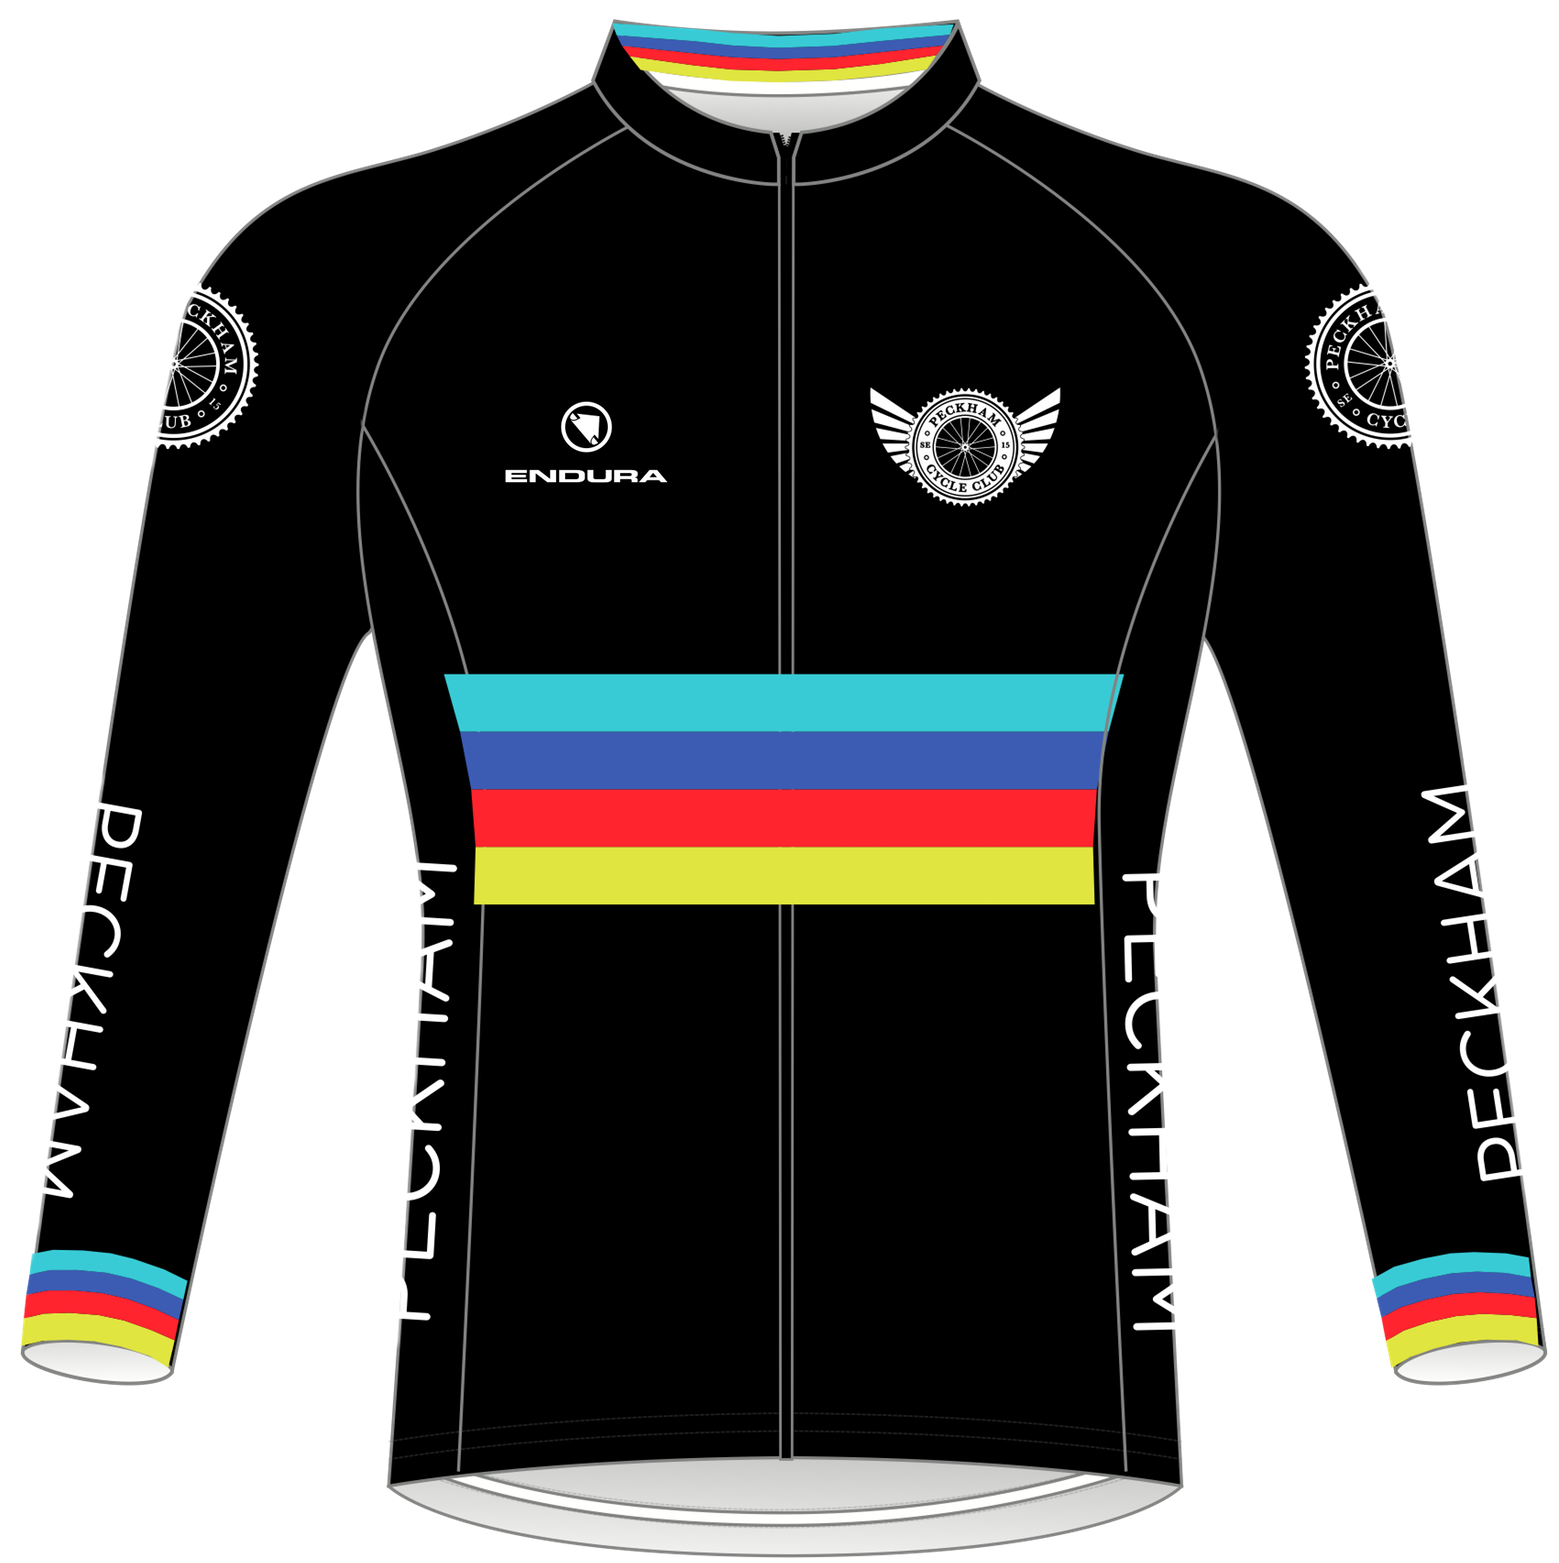
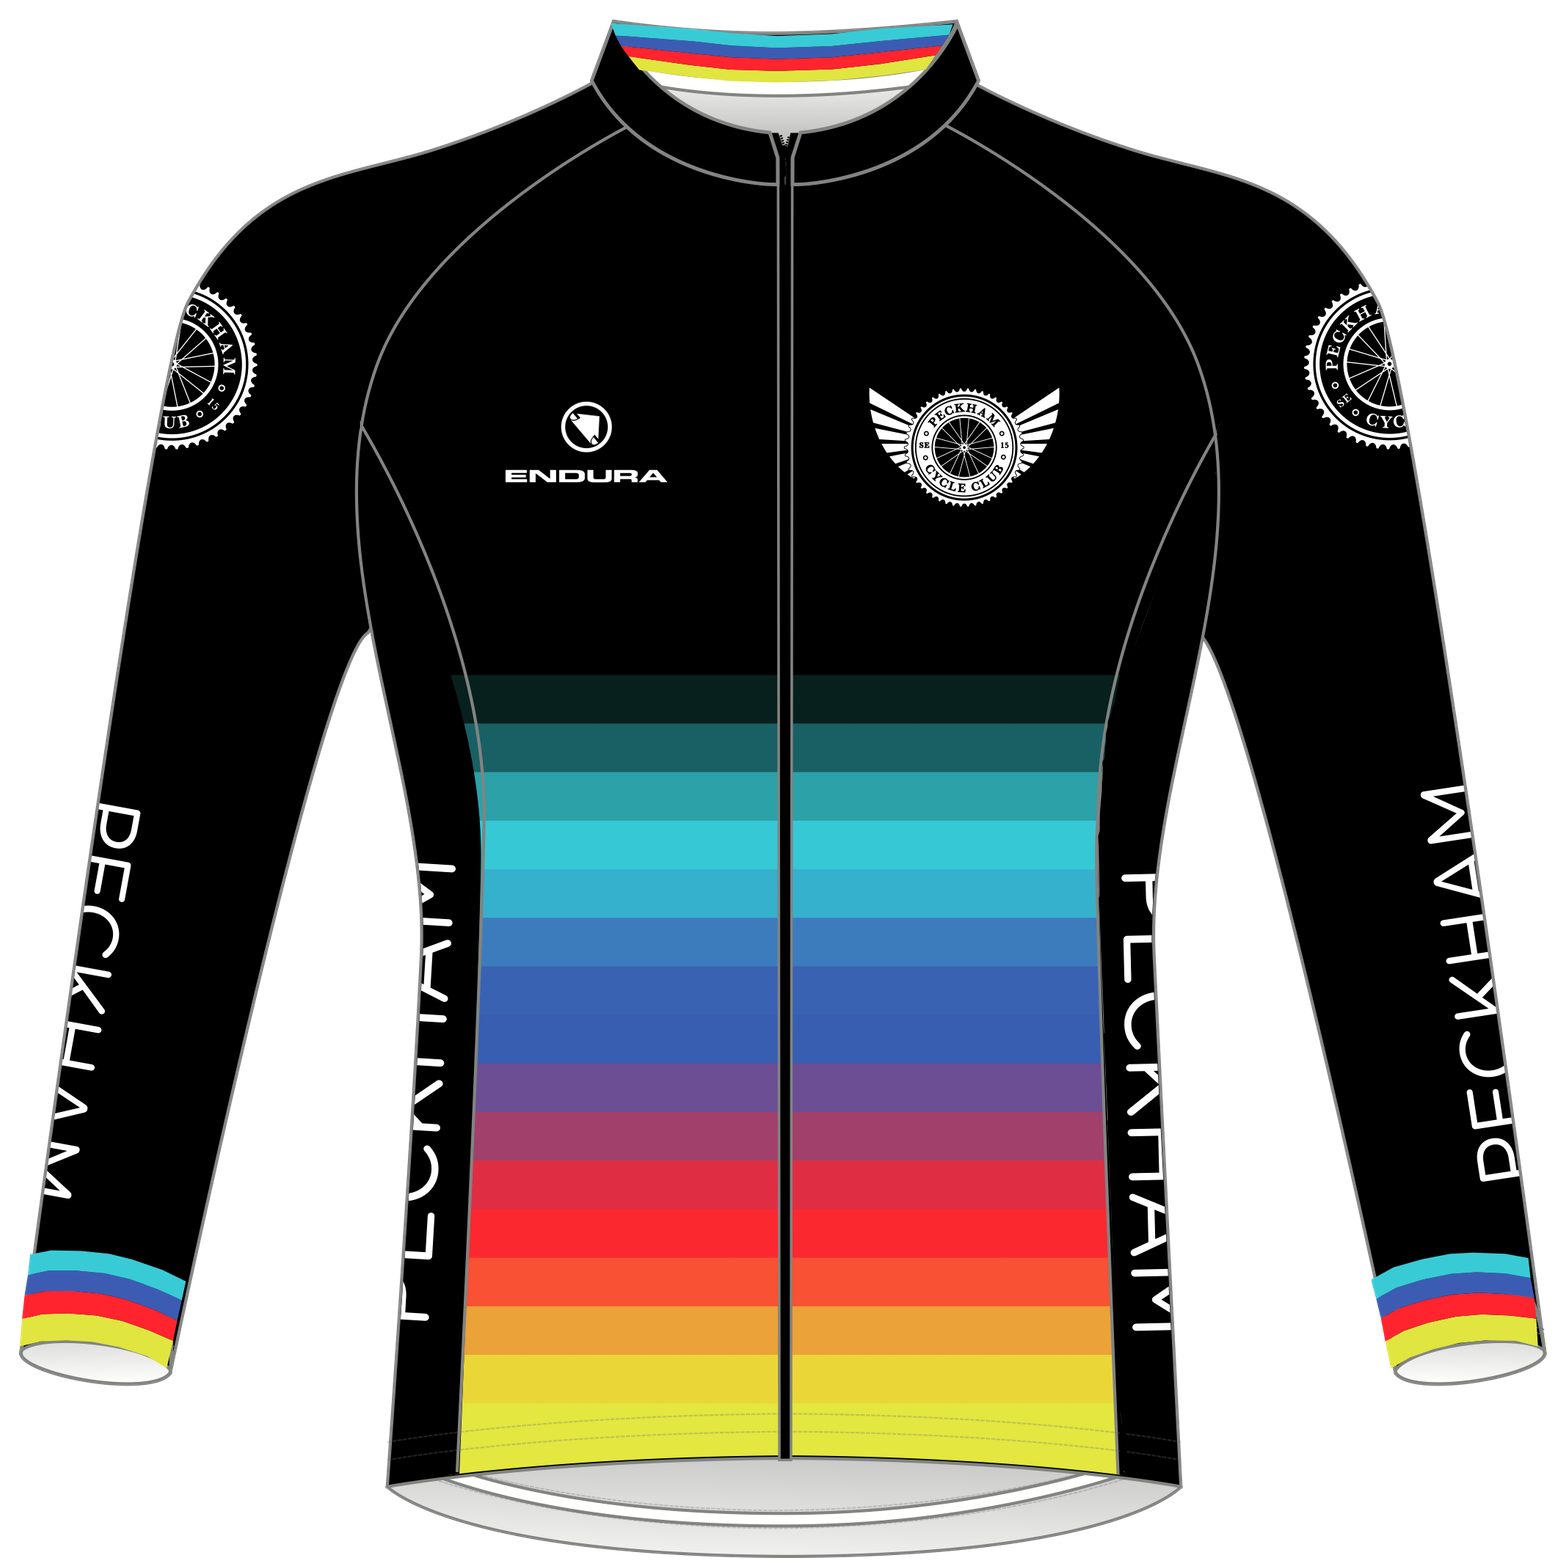
Update jersey designs and add casualwear

diff --git a/packages/config/index.js b/packages/config/index.js
@@ -15,6 +15,10 @@ const SECTIONS = {
   ACCESSORIES: {
     title: 'Accessories',
     slug: 'accessories'
+  },
+  CASUAL: {
+    title: 'Casualwear',
+    slug: 'casualwear'
   }
 }
 
@@ -290,6 +294,83 @@ const GLOVE_SIZES = [{
       unisex: {
         metric: '12cm',
         imperial: '5.1"'
+      }
+    }
+  }
+}]
+
+const TSHIRT_SIZES = [{
+  code: 'S',
+  name: 'Small',
+  measurements: {
+    chest: {
+      male: {
+        metric: '86-91cm',
+        imperial: '34-36"'
+      },
+      female: {
+        metric: '86-89cm',
+        imperial: '34-35"'
+      }
+    }
+  }
+}, {
+  code: 'M',
+  name: 'Medium',
+  measurements: {
+    chest: {
+      male: {
+        metric: '96-101cm',
+        imperial: '38-40"'
+      },
+      female: {
+        metric: '91-94cm',
+        imperial: '36-37"'
+      }
+    }
+  }
+}, {
+  code: 'L',
+  name: 'Large',
+  measurements: {
+    chest: {
+      male: {
+        metric: '106-111cm',
+        imperial: '42-44"'
+      },
+      female: {
+        metric: '99-101cm',
+        imperial: '39-40"'
+      }
+    }
+  }
+}, {
+  code: 'XL',
+  name: 'Extra large',
+  measurements: {
+    chest: {
+      male: {
+        metric: '117-122cm',
+        imperial: '46-48"'
+      },
+      female: {
+        metric: '106-112cm',
+        imperial: '42-44"'
+      }
+    }
+  }
+}, {
+  code: 'XXL',
+  name: 'XX Large',
+  measurements: {
+    chest: {
+      male: {
+        metric: '127-132cm',
+        imperial: '50-52"'
+      },
+      female: {
+        metric: '117-122cm',
+        imperial: '46-48"'
       }
     }
   }
@@ -641,6 +722,58 @@ const config = {
         'N.b. there is stock of this item available to buy at <a href="https://ratracecycles.com/">Rat Race Cycles</a>'
       ],
       price: 800
+    },
+    {
+      sku: 'CLUB-TSHIRT-2019',
+      title: 'Club t-shirt',
+      slug: 'club-tshirt-2019',
+      section: SECTIONS.CASUAL,
+      details: [
+        'N.b. £5 pre-production discount!',
+        'We are doing a run of printed shirts/hoodies hopefully in time for the Christmas party',
+        'Club t-shirt printed on 100% cotton Fruit of the Loom shirt in black'
+      ],
+      sizes: TSHIRT_SIZES,
+      price: 1500
+    },
+    {
+      sku: 'CLUB-LS-TSHIRT-2019',
+      title: 'Club long sleeved t-shirt',
+      slug: 'club-ls-tshirt-2019',
+      section: SECTIONS.CASUAL,
+      details: [
+        'N.b. £5 pre-production discount!',
+        'We are doing a run of printed shirts/hoodies hopefully in time for the Christmas party',
+        'Club long sleeved t-shirt printed on 100% cotton Fruit of the Loom shirt in black'
+      ],
+      sizes: TSHIRT_SIZES,
+      price: 2000
+    },
+    {
+      sku: 'CLUB-HOODIE-2019',
+      title: 'Club hoodie',
+      slug: 'club-hoodie-2019',
+      section: SECTIONS.CASUAL,
+      details: [
+        'N.b. £5 pre-production discount!',
+        'We are doing a run of printed shirts/hoodies hopefully in time for the Christmas party',
+        'Club hoodie printed on black Fruit of the Loom hoodie'
+      ],
+      sizes: TSHIRT_SIZES,
+      price: 3000
+    },
+    {
+      sku: 'CLUB-ZIP-HOODIE-2019',
+      title: 'Club zip hoodie',
+      slug: 'club-zip-hoodie-2019',
+      section: SECTIONS.CASUAL,
+      details: [
+        'N.b. £5 pre-production discount!',
+        'We are doing a run of printed shirts/hoodies hopefully in time for the Christmas party',
+        'Club hoodie printed on black Fruit of the Loom hoodie with zip'
+      ],
+      sizes: TSHIRT_SIZES,
+      price: 3500
     }]
   }
 }

diff --git a/packages/website/src/config.js b/packages/website/src/config.js
@@ -11,11 +11,8 @@ import capFrontImage from '../assets/shop/cap-front.png?sizes[]=300,sizes[]=500'
 import capSidesImage from '../assets/shop/cap-sides.png?sizes[]=300,sizes[]=500'
 import giletFrontImage from '../assets/shop/gilet-front.png?sizes[]=300,sizes[]=500'
 import giletRearImage from '../assets/shop/gilet-rear.png?sizes[]=300,sizes[]=500'
-import kneeWarmersImage from '../assets/shop/knee-warmers.png?sizes[]=300,sizes[]=500'
-import legWarmersImage from '../assets/shop/leg-warmers.png?sizes[]=300,sizes[]=500'
 import lsJerseyFrontImage from '../assets/shop/ls-jersey-front.png?sizes[]=300,sizes[]=500'
 import lsJerseyRearImage from '../assets/shop/ls-jersey-rear.png?sizes[]=300,sizes[]=500'
-import shoeCoversImage from '../assets/shop/shoe-covers.png?sizes[]=300,sizes[]=500'
 import ssJerseyFrontImage from '../assets/shop/ss-jersey-front.png?sizes[]=300,sizes[]=500'
 import ssJerseyRearImage from '../assets/shop/ss-jersey-rear.png?sizes[]=300,sizes[]=500'
 import ssSummerJerseyFrontImage from '../assets/shop/ss-summer-jersey-front.png?sizes[]=300,sizes[]=500'
@@ -24,13 +21,19 @@ import winterJacketFrontImage from '../assets/shop/winter-jacket-front.png?sizes
 import winterJacketRearImage from '../assets/shop/winter-jacket-rear.png?sizes[]=300,sizes[]=500'
 import winterTightsFrontImage from '../assets/shop/winter-tights-front.png?sizes[]=300,sizes[]=500'
 import winterTightsRearImage from '../assets/shop/winter-tights-rear.png?sizes[]=300,sizes[]=500'
-import tripsImage from '../assets/shop/trips.png?sizes[]=300,sizes[]=500'
 import socksSideImage from '../assets/shop/socks-side.png?sizes[]=300,sizes[]=500'
 import socksTopImage from '../assets/shop/socks-top.png?sizes[]=300,sizes[]=500'
 import glovesImage from '../assets/shop/gloves.png?sizes[]=300,sizes[]=500'
 import multiTubeImage from '../assets/shop/multi-tube.png?sizes[]=300,sizes[]=500'
 import headsetCapImage from '../assets/shop/headset-cap.png?sizes[]=300,sizes[]=500'
 import bidonImage from '../assets/shop/bidon.png?sizes[]=300,sizes[]=500'
+import tshirtFrontImage from '../assets/shop/tshirt-front.png?sizes[]=300,sizes[]=500'
+import tshirtRearImage from '../assets/shop/tshirt-rear.png?sizes[]=300,sizes[]=500'
+import lsTshirtFrontImage from '../assets/shop/ls-tshirt-front.png?sizes[]=300,sizes[]=500'
+import lsTshirtRearImage from '../assets/shop/ls-tshirt-rear.png?sizes[]=300,sizes[]=500'
+import hoodieFrontImage from '../assets/shop/hoodie-front.png?sizes[]=300,sizes[]=500'
+import hoodieRearImage from '../assets/shop/hoodie-rear.png?sizes[]=300,sizes[]=500'
+import zipHoodieFrontImage from '../assets/shop/zip-hoodie-front.png?sizes[]=300,sizes[]=500'
 
 const productImages = {
   'CLUB-JERSEY-2018': [
@@ -87,6 +90,22 @@ const productImages = {
   ],
   'CLUB-BIDON-2018': [
     bidonImage
+  ],
+  'CLUB-TSHIRT-2019': [
+    tshirtFrontImage,
+    tshirtRearImage
+  ],
+  'CLUB-LS-TSHIRT-2019': [
+    lsTshirtFrontImage,
+    lsTshirtRearImage
+  ],
+  'CLUB-HOODIE-2019': [
+    hoodieFrontImage,
+    hoodieRearImage
+  ],
+  'CLUB-ZIP-HOODIE-2019': [
+    zipHoodieFrontImage,
+    hoodieRearImage
   ]
 }
 
@@ -113,6 +132,9 @@ SECTIONS.SHORTS.images = [
 ]
 SECTIONS.ACCESSORIES.images = [
   capFrontImage
+]
+SECTIONS.CASUAL.images = [
+  tshirtFrontImage
 ]
 
 export default config
